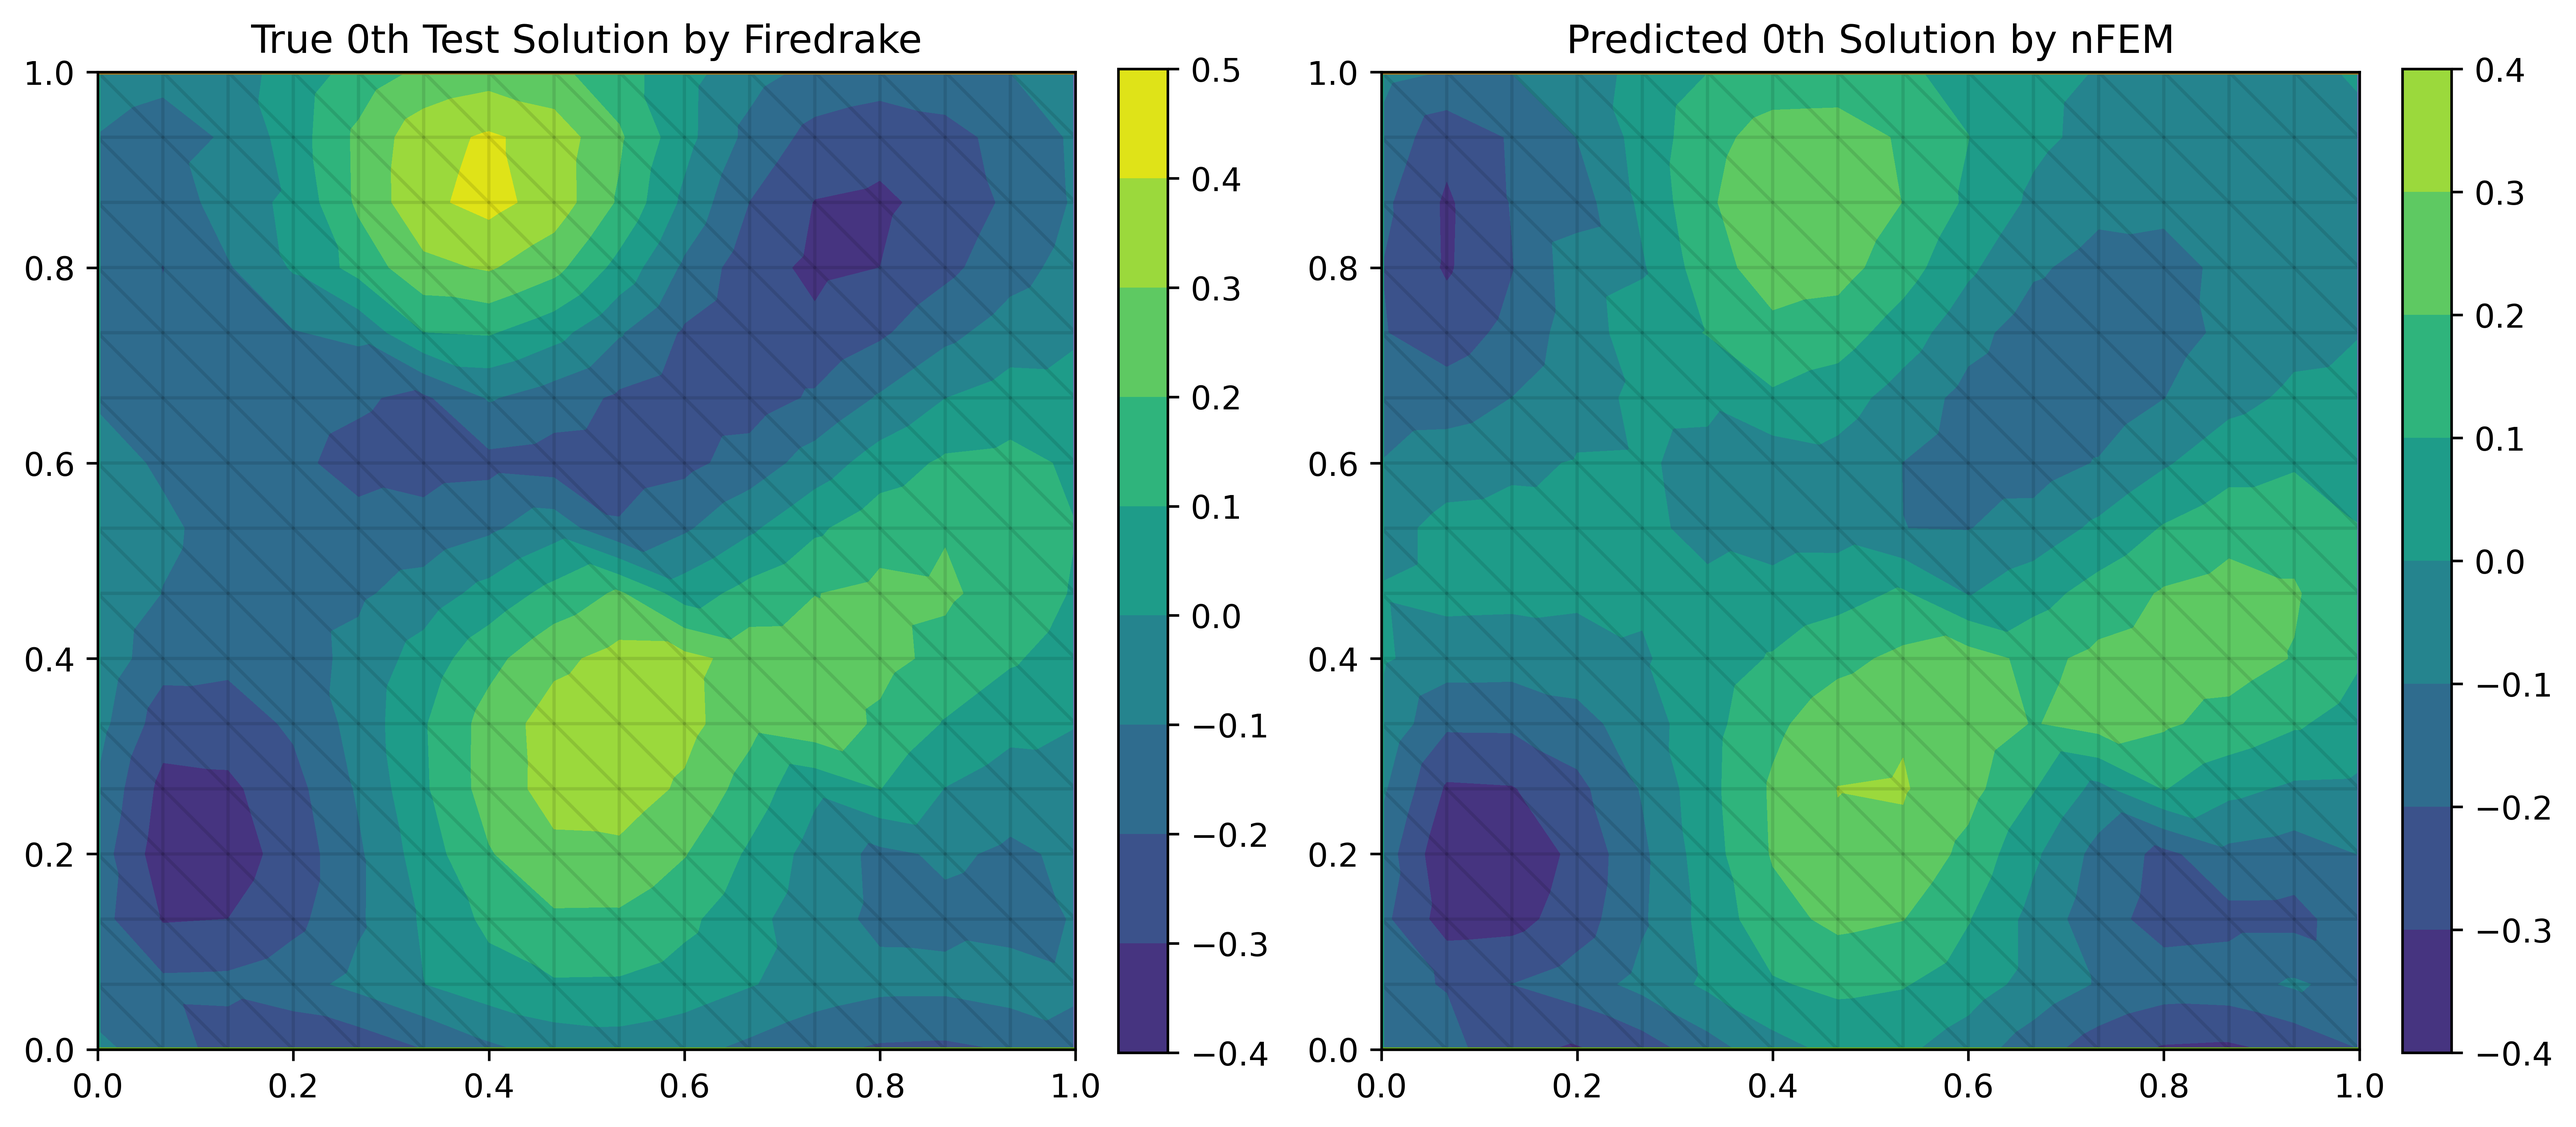
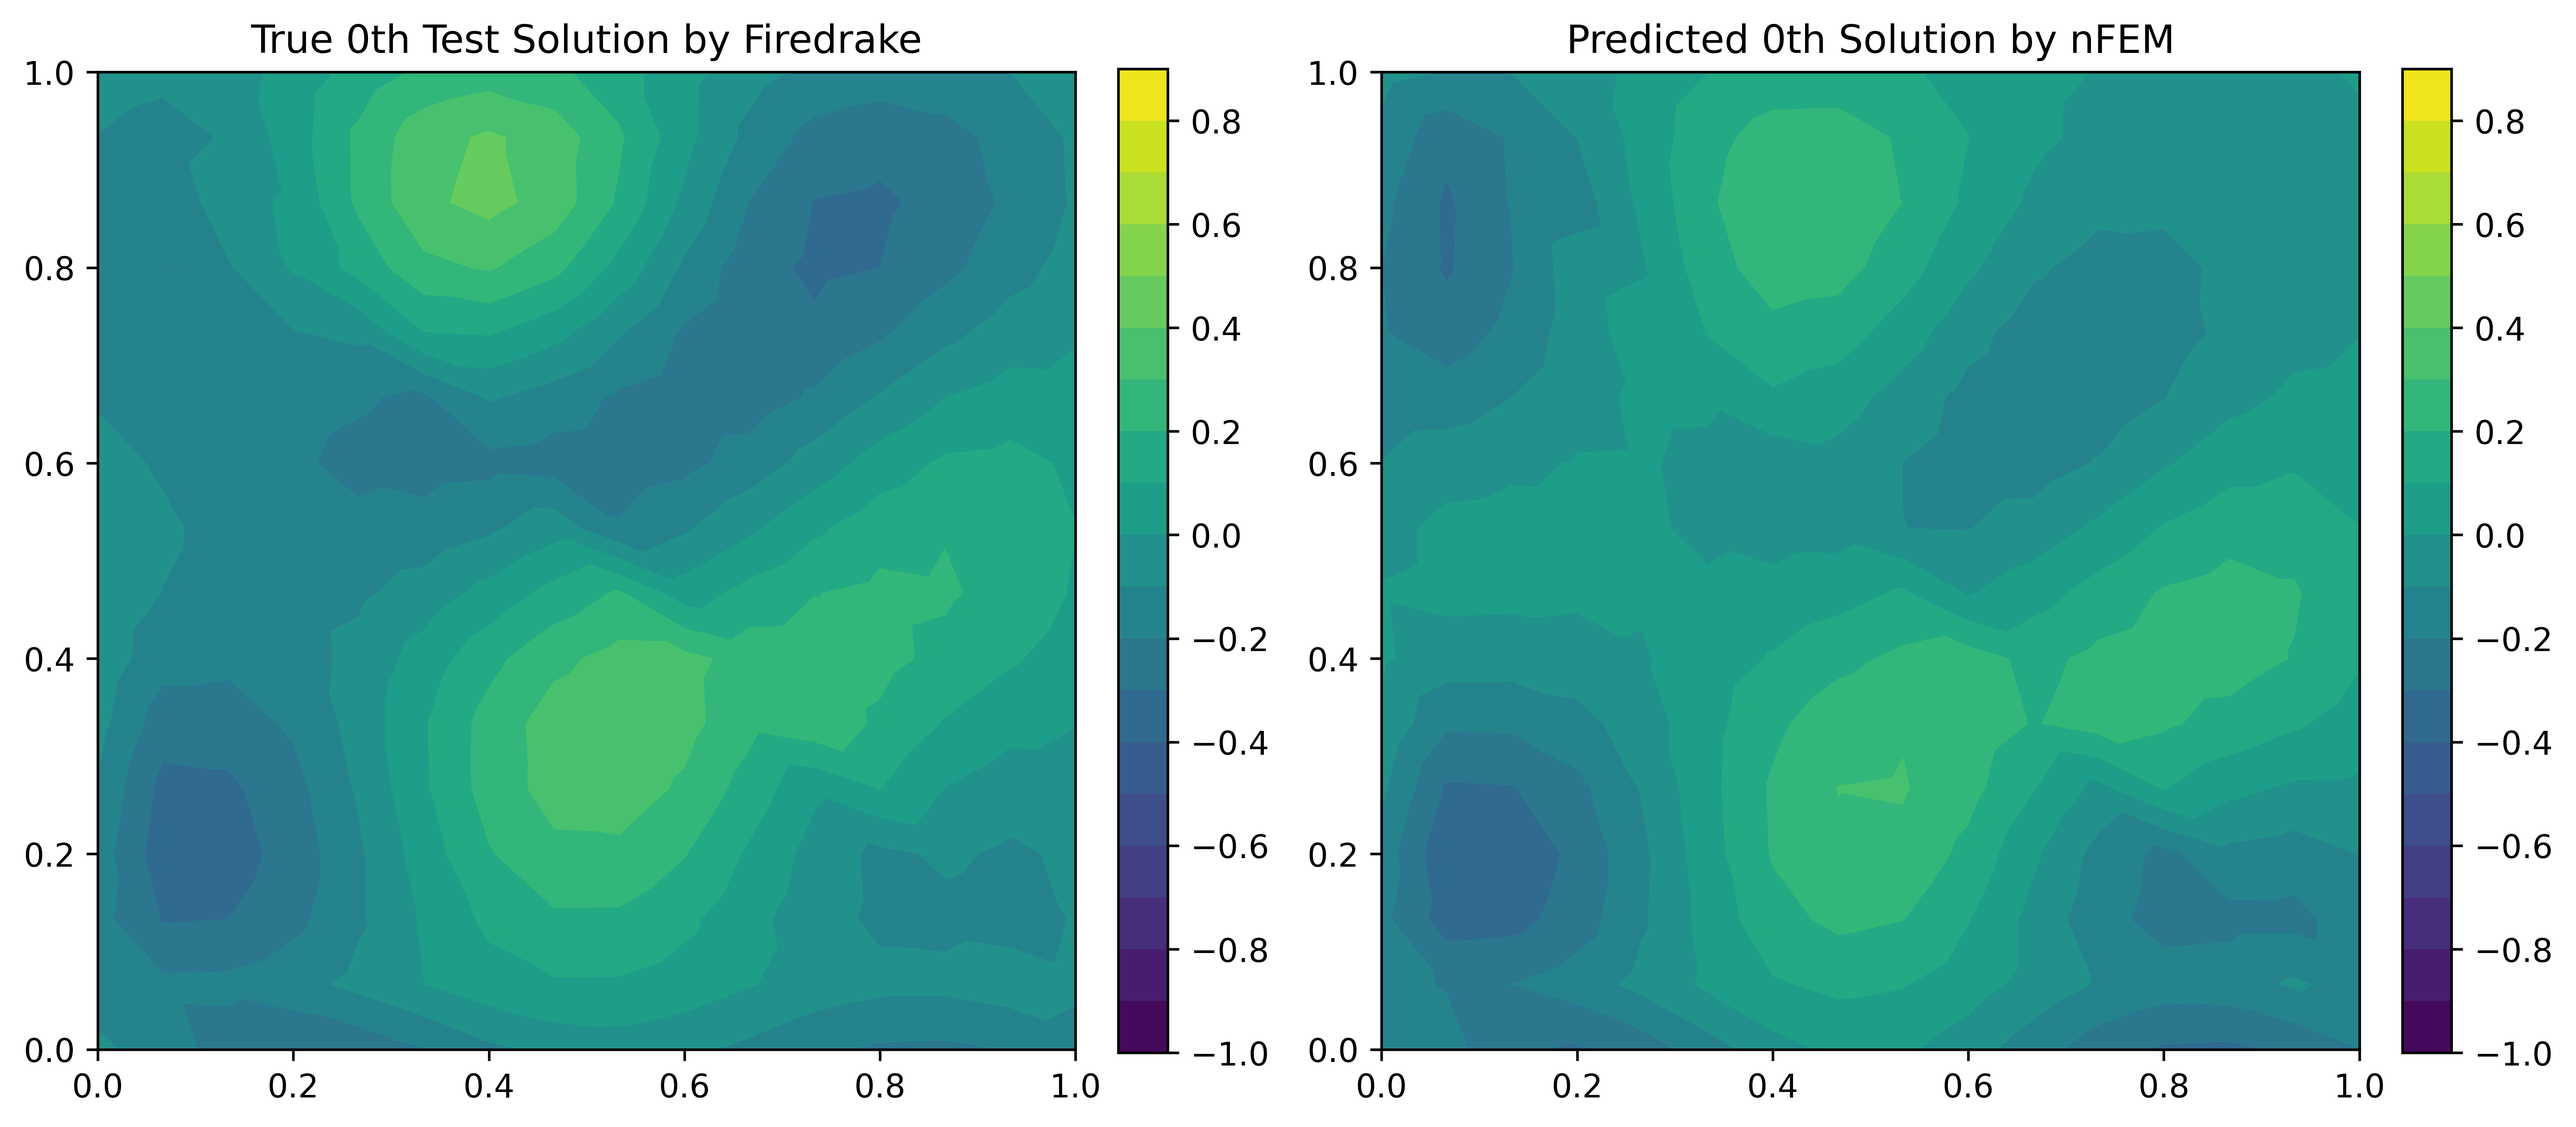
Add value range limits for colorbar

diff --git a/demos/tnet_heat_equation/model_inference.py b/demos/tnet_heat_equation/model_inference.py
@@ -1,3 +1,4 @@
+import matplotlib
 from firedrake import *
 import firedrake as fd
 import matplotlib.pyplot as plt
@@ -239,7 +240,8 @@ def plot_u(u, u_pred, i):
     plt.subplot(121)
     ax = plt.gca()
     ax.set_aspect("equal")
-    l = tricontourf(from_numpy(np.reshape(u[i, :], (256, 1)), fd.Function(V)), axes=ax)
+    levels = np.arange(-1,1,0.1)
+    l = tricontourf(from_numpy(np.reshape(u[i, :], (256, 1)), fd.Function(V)), axes=ax, levels=levels)
     # triplot(mesh, axes=ax, interior_kw=dict(alpha=0.05))
     plt.colorbar(l, fraction=0.046, pad=0.04)
     plt.title('True ' + str(i) + 'th Test Solution by Firedrake')
@@ -247,12 +249,12 @@ def plot_u(u, u_pred, i):
     plt.subplot(122)
     ax = plt.gca()
     ax.set_aspect("equal")
-    l = tricontourf(from_numpy(np.reshape(u_pred[i, :], (256, 1)), fd.Function(V)), axes=ax)
+    l = tricontourf(from_numpy(np.reshape(u_pred[i, :], (256, 1)), fd.Function(V)), axes=ax, levels=levels)
     # triplot(mesh, axes=ax, interior_kw=dict(alpha=0.05))
     plt.colorbar(l, fraction=0.046, pad=0.04)
     plt.title('Predicted ' + str(i) + 'th Solution by nFEM')
 
-    plt.savefig("results/predicted_solutions/Pred_" + str(i) + ".png", dpi=600, bbox_inches='tight')
+    plt.savefig("results/predicted_solutions/pred_" + str(i) + ".png", dpi=600, bbox_inches='tight')
     plt.close()
 
 
@@ -269,20 +271,14 @@ kappa_true = kappa_true.cpu().detach().numpy().astype(np.float64)
 
 # torch.mean(torch.linalg.vector_norm(torch.tensor(kappa_pred).to(device) - torch.tensor(kappa_true).to(device), dim=-1)**2 / torch.linalg.vector_norm(torch.tensor(kappa_true).to(device), dim=-1)**2)
 
-
-
-# ? PLEASE TRY VMIN VMAX FOR PLOT FUNCTION THERE!!!
-
-
-Cases = 4
+Cases = 40
 for sample in range(Cases):
     plot_u(kappa_true, kappa_pred, sample)
 
-
-# import imageio.v2
-# image_list = []
-# for step in range(Cases):
-#     image_list.append(imageio.v2.imread("results/predicted_solutions/pred_" + str(step) + ".png"))
-# imageio.mimwrite('results/animations.gif', image_list, duration=0.5)
+import imageio.v2
+image_list = []
+for step in range(Cases):
+     image_list.append(imageio.v2.imread("results/predicted_solutions/pred_" + str(step) + ".png"))
+imageio.mimwrite('results/animations.gif', image_list, duration=0.5)
 # # imageio.mimwrite('animated_burger_sample_' + str(sample) + '.gif', image_list, fps = 60)
 
